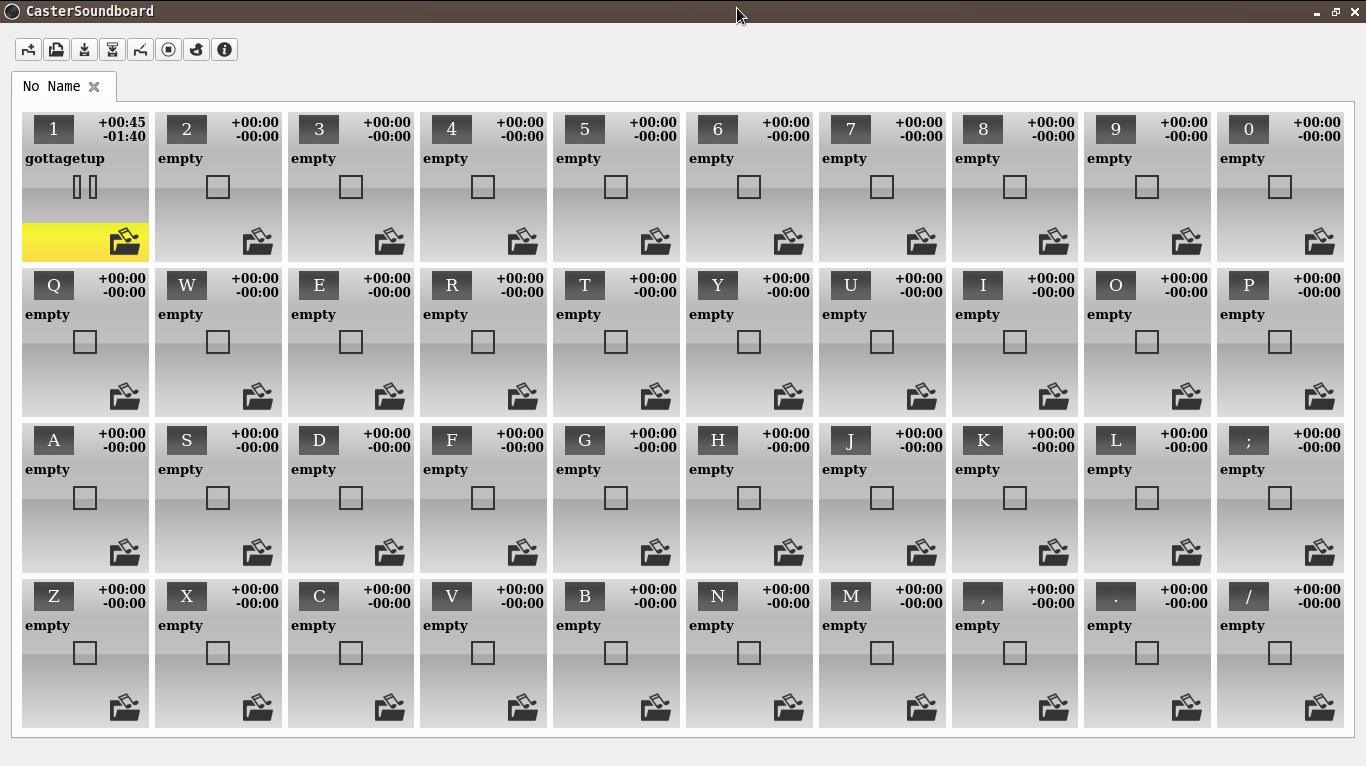
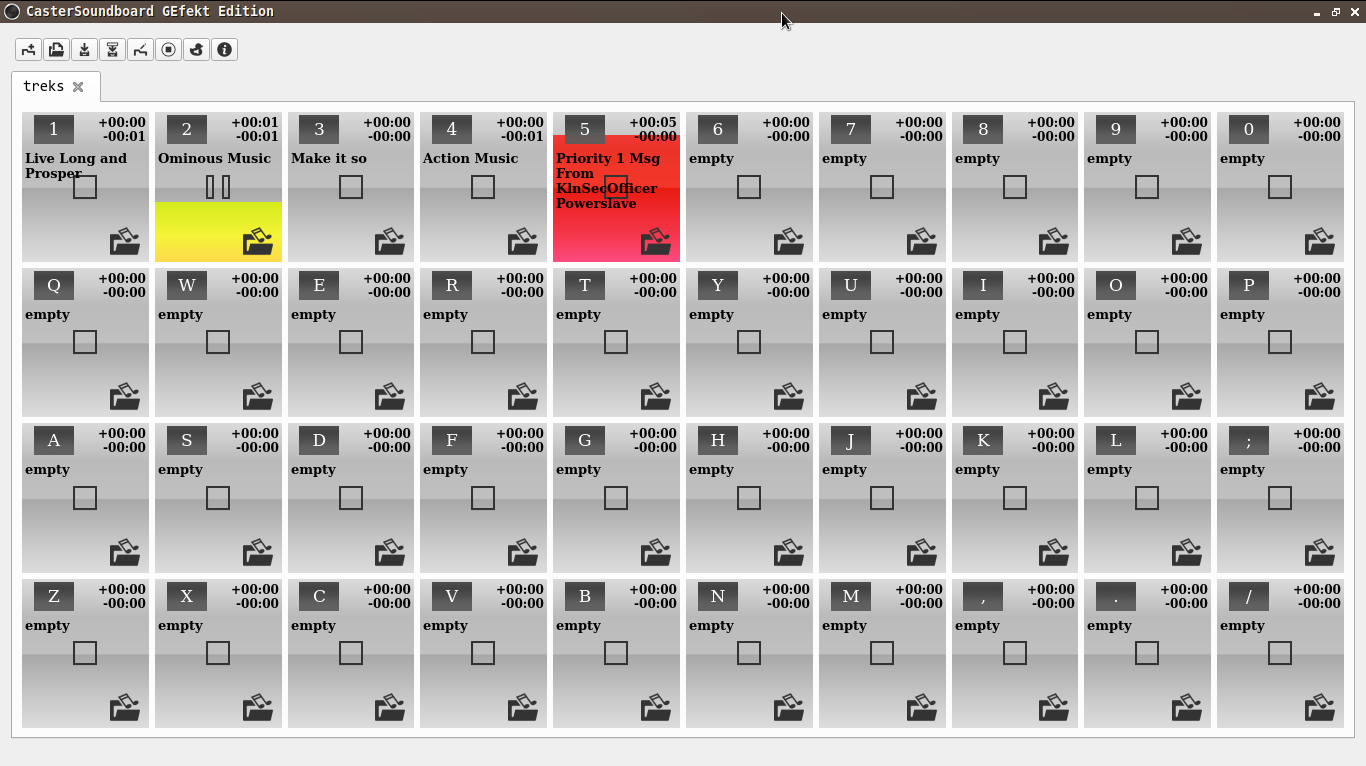
change window title, about dialog, new screenshot

diff --git a/MainWindow.cpp b/MainWindow.cpp
@@ -62,7 +62,7 @@ MainWindow::MainWindow(QWidget *parent) : QWidget(parent)
     oscConfigPicker = new CasterOSCServerConfigPicker("0.0.0.0", inbound_port, *outbound_ipv4, outbound_port);
 
     //SET WINDOW PROPETIES
-    this->setWindowTitle("CasterSoundboard");
+    this->setWindowTitle("CasterSoundboard GEfekt Edition");
     this->setWindowIcon(QIcon(":/res/img/app.png"));
     this->setWindowState(Qt::WindowMaximized);
     //this->setWindowState(Qt::WindowFullScreen);
@@ -229,7 +229,7 @@ void MainWindow::aboutBox()
 {
     QMessageBox msgBox;
     msgBox.setText("CasterSoundboard (v1.0) Beta<br>Author: <a href=""https://github.com/covarianttensor"">Oscar Cerna</a><br>e-mail: <a href=mailto:covarianttensor@gmail.com>covarianttensor@gmail.com</a><br>License: <a href=""https://github.com/JupiterBroadcasting/CasterSoundboard/blob/master/LICENSE"">LGPL v3</a><br>© 2013-2017 Oscar Cerna");
-    msgBox.setInformativeText("<a href=""https://github.com/yradunchev/CasterSoundboard_1366x768"">GovorenEfekt 2019-1 Edition</a><br>Fork by: <a href=""https://govorenefekt.com"">Govoren Efekt</a><br>License: <a href=""https://github.com/yradunchev/CasterSoundboard_1366x768/blob/master/LICENSE.md"">GPL v3</a>");
+    msgBox.setInformativeText("<a href=""https://github.com/yradunchev/CasterSoundboard-GEfekt-Edition"">GEfekt 2019-2 Edition</a><br>Fork by: <a href=""https://govorenefekt.com"">Govoren Efekt</a><br>License: <a href=""https://github.com/yradunchev/CasterSoundboard_1366x768/blob/master/LICENSE.md"">GPL v3</a>");
     msgBox.setStandardButtons(QMessageBox::Close);
     msgBox.setDefaultButton(QMessageBox::Close);
     msgBox.setModal(true);

diff --git a/README.md b/README.md
@@ -1,6 +1,6 @@
-# CasterSoundboard_1366x768
+# CasterSoundboard GEfekt Edition
 
-A fork from [CasterSondboard by JupiterBroadcasting](https://github.com/JupiterBroadcasting/CasterSoundboard), adapted to 1366 x 768 displays.
+A fork from [CasterSondboard by JupiterBroadcasting](https://github.com/JupiterBroadcasting/CasterSoundboard), clean interface.
 
 
 ![full screen](screenshots/20190210132502.png)
